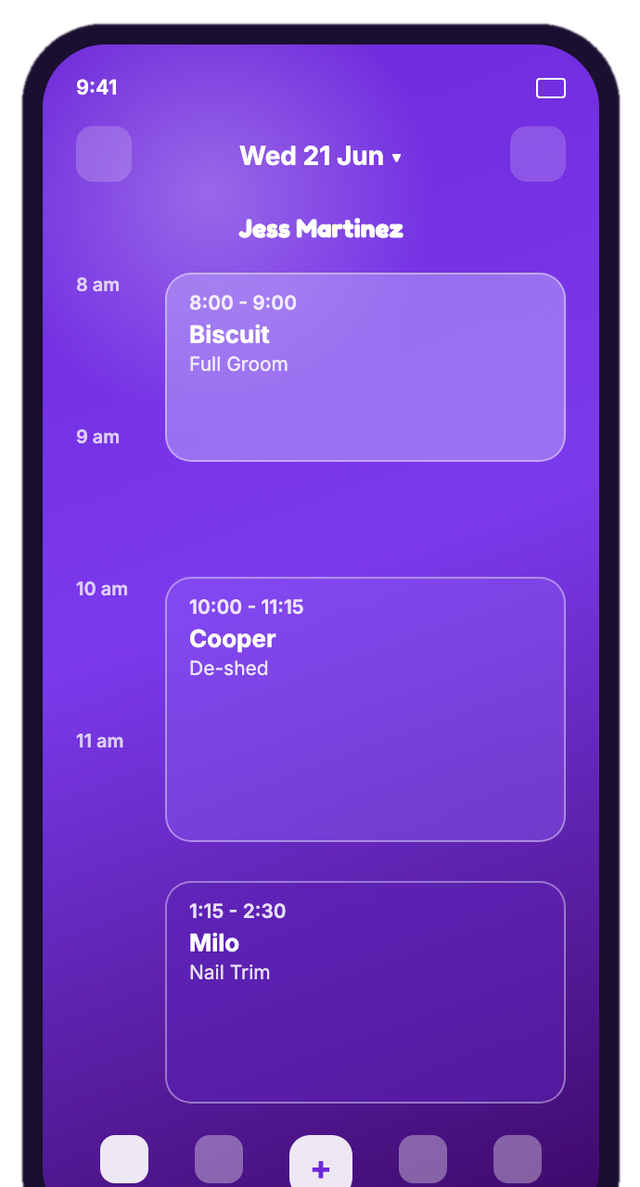
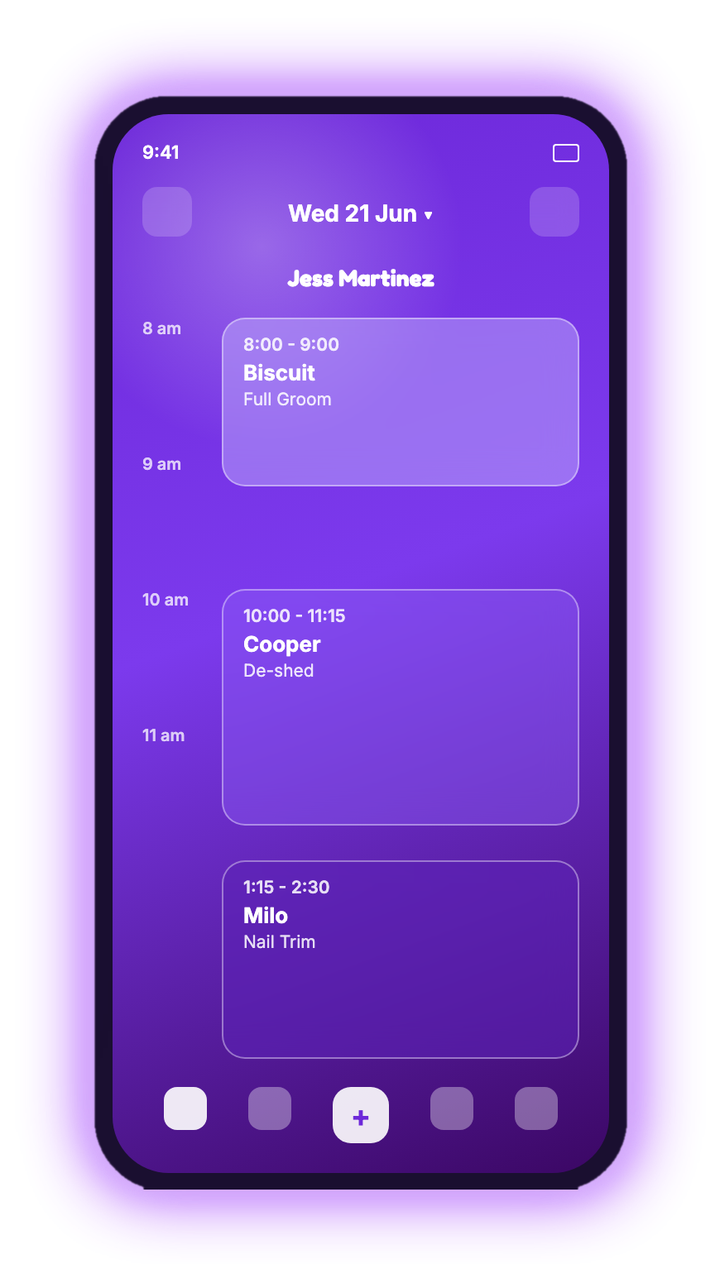
Fix missing bottom bezel and add a glowing halo to the mobile calendar image
The bottom rounded bezel was cropped off entirely (the earlier crop bound
landed mid-frame), and the phone sat on a hard black-on-dark-purple edge
that barely read against the page background.

Re-cropped to include the full bezel, then found a genuine bug in the
background flood-fill: the design's box-shadow follows the phone's whole
rounded silhouette, and parts of that soft gradient exceeded the flood-
fill's color threshold, leaving light corner-wedge artifacts rendered in
their original (light) color instead of going transparent. Fixed by
raising the flood-fill tolerance (the bezel's near-black is different
enough from the light background that this can't bleed into it) and
trimming a few residual edge pixels the erosion pass couldn't reach.

Added a two-layer glow — a wide, heavily-blurred violet halo plus a
tighter bright core immediately behind the bezel edge — baked into the
PNG itself with expanded canvas padding, rather than a CSS box-shadow
(which only follows the image's rectangular bounding box, not the
phone's actual silhouette). Removed the now-redundant CSS shadow/rounding
classes and widened the container to fit the extra glow margin.

diff --git a/app/page.tsx b/app/page.tsx
@@ -97,9 +97,9 @@ export default function MarketingHomePage() {
           <Image
             src="/marketing/calendar-phone.png"
             alt="GroomZy calendar — mobile day view"
-            width={640}
-            height={1187}
-            className="w-full max-w-[280px] rounded-[2rem] shadow-2xl shadow-violet-950/50"
+            width={720}
+            height={1264}
+            className="w-full max-w-[360px]"
           />
         </div>
       </section>
